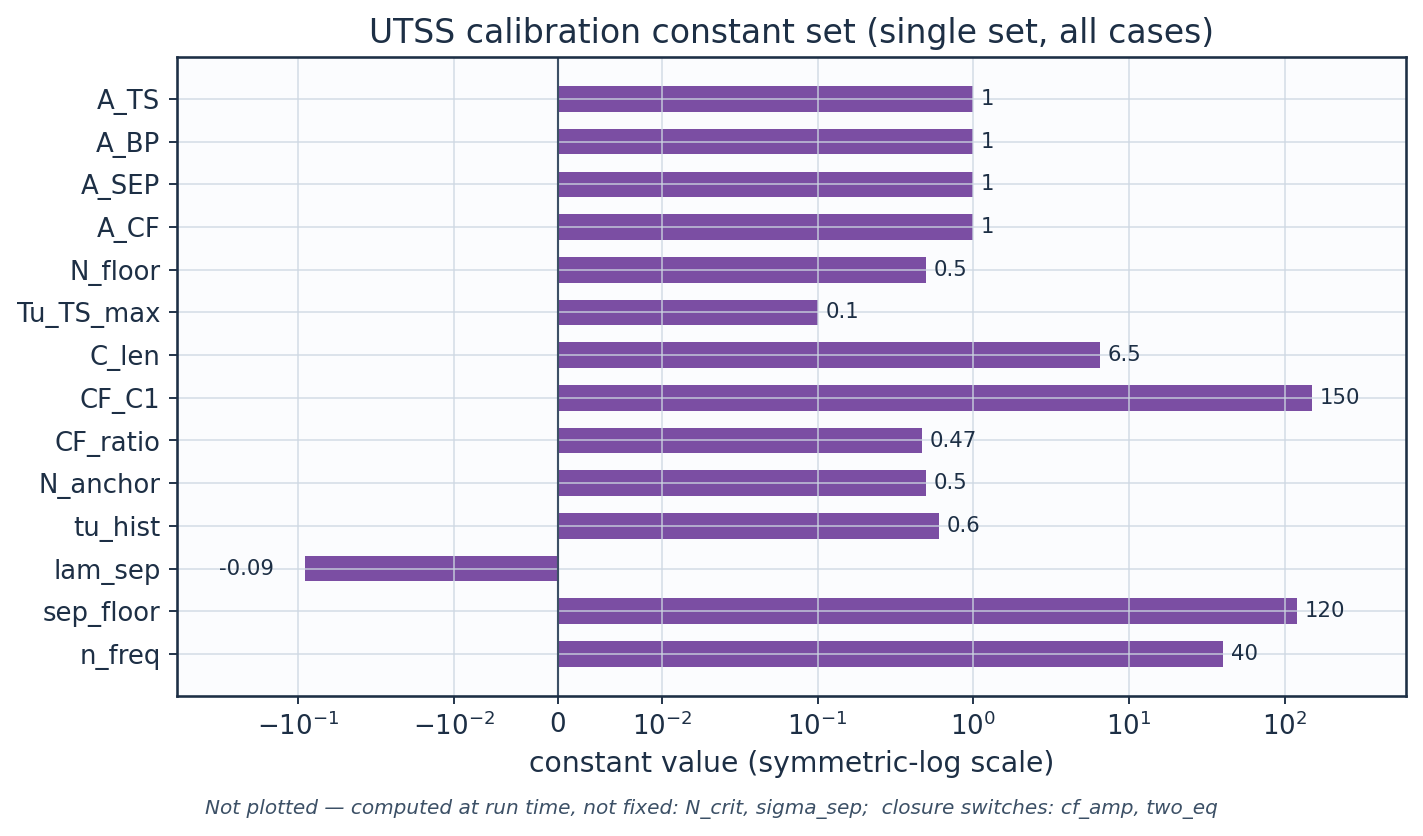
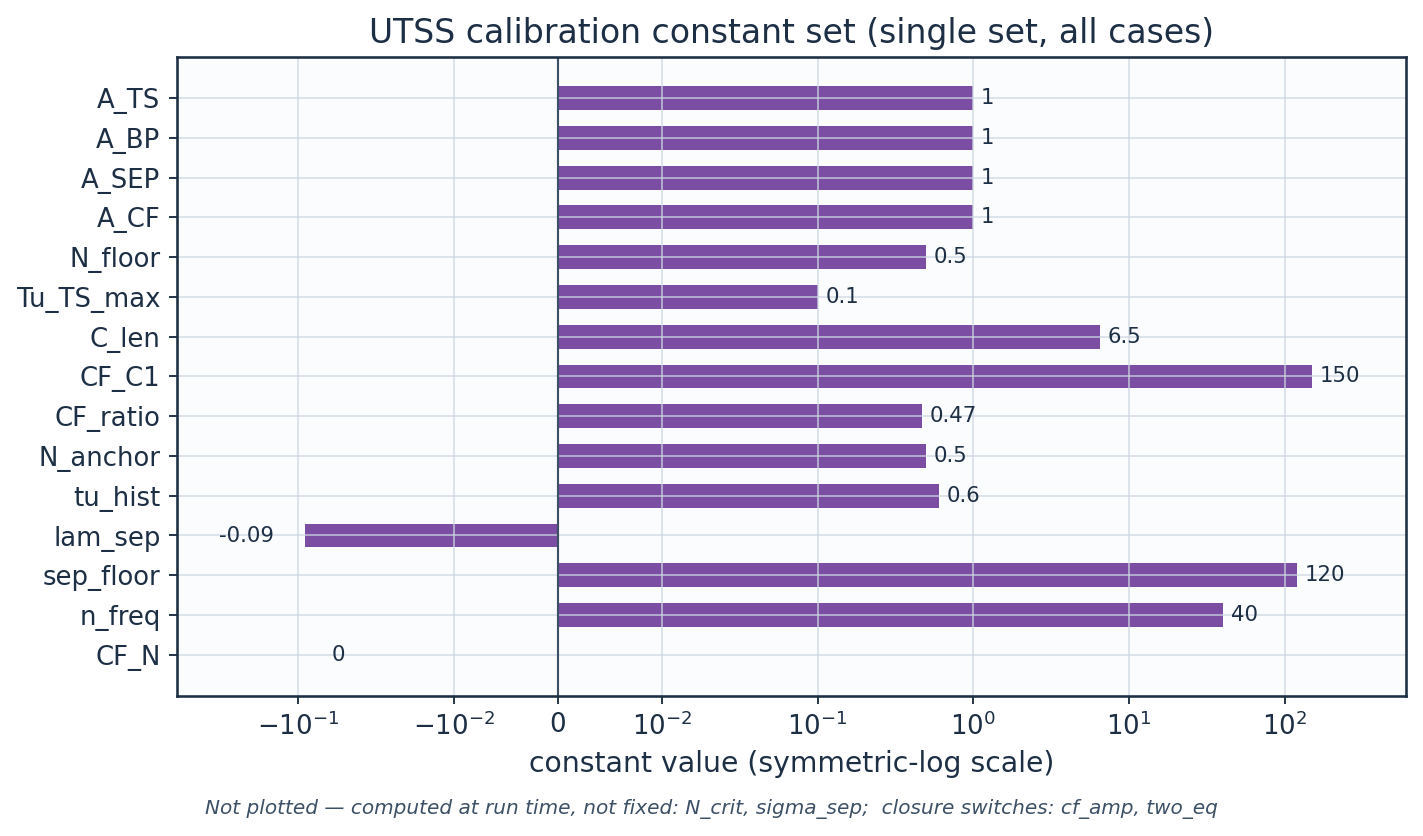
Measure what the two swept wings require of the cross-flow criterion, and stop charging the bubble to the laminar branch
Two of the three things left standing were reported as limitations without the
evidence that would let a reader judge them.  One was a reporting defect.

The laminar skin-friction error charged the separation bubble to the laminar
branch.  A station inside the bubble has C_f set identically to zero by the
closure, so a relative error against a measured 1.9e-4 is 100 per cent by
construction and says nothing about the branch being assessed.  Two such
stations were carrying T3C4 from 18.6 to 29.7 per cent.  The laminar set now
stops at the predicted separation point and T3C4 reads 21.9 per cent over nine
stations, which is a real error - the layer is fuller than the measurement
through the adverse gradient, and the station just before separation is wrong
by 48 per cent.

The cross-flow band was asserted rather than measured.  crossflow_criticals()
now marches each of the ten swept-wing conditions with every branch disabled,
so the march reaches the measured transition station, and evaluates the
criterion there.  What the two experiments actually require:

  Dagenhart & Saric   Re_theta2 = 168.9, coefficient of variation 21.7 %, n=6
  Boltz et al.        Re_theta2 = 233.8, coefficient of variation  4.0 %, n=4
  pooled              Re_theta2 = 194.9, coefficient of variation 22.1 %, n=10

Each facility is internally consistent - the second to four per cent, across
four sweep angles and a threefold range of chord Reynolds number - and the two
[…]

diff --git a/build_docx.py b/build_docx.py
@@ -534,10 +534,28 @@ para("The cross-flow coefficient is set on the first of these two experiments an
  "serves both. The independent set is therefore tabulated at BOTH ends of that band: "
  "reporting only C1 = 150 understates what the criterion does here, and reporting only "
  "C1 = 200 would be a per-case re-tune of the kind this work is claiming not to need. The "
- "spread between the two columns is the limitation, stated rather than averaged away, and "
- "it is a receptivity difference — stationary cross-flow vortices are seeded by "
- "leading-edge roughness, which neither report documents. Nothing else in the model differs "
- "between the two columns.")
+ "spread between the two columns is the limitation, stated rather than averaged away. "
+ "Nothing else in the model differs between the two columns.")
+para("What each experiment requires of the criterion is measured rather than asserted "
+ "(Table 25). The march is run with every branch disabled so that it reaches the measured "
+ "transition station, and the criterion is evaluated there. Dagenhart & Saric require a "
+ "critical Re_θ2 of 169 with a 21.7 % coefficient of variation over six chord Reynolds "
+ "numbers; Boltz et al. require 234 with 4.0 % over four sweep angles and a factor of three in chord "
+ "Reynolds number. Each facility is therefore internally consistent — the second markedly so — "
+ "and the two differ by 38 %. That is the shape of a receptivity difference rather than of a "
+ "criterion with the wrong form: stationary cross-flow vortices are seeded by leading-edge "
+ "roughness, and neither report documents the surface finish. Two attempts to close the gap "
+ "fail and are recorded rather than dropped. Replacing the constant surrogate by the exact "
+ "Falkner-Skan-Cooke factor K(λ) makes matters worse, taking the pooled coefficient of "
+ "variation from 22 to 86 % and inverting the ratio between the two sets. Giving the "
+ "cross-flow branch its own "
+ "amplification threshold, separate from the one Mack's relation supplies for "
+ "Tollmien-Schlichting waves — which is defensible, since a stationary cross-flow vortex is "
+ "not seeded by free-stream turbulence — moves the independent set only from 55 to 51 % as "
+ "that threshold is taken from N = 2 to N = 12, with C1 refitted on the calibration set at "
+ "each value. The reason is that once Re_θ2 exceeds C1 the amplification builds so quickly "
+ "that the threshold is nearly redundant with C1 itself, so the two constants cannot be "
+ "separated by these data.")
 table_from_csv("06_validation/swept_wing_crossflow.csv",
                cap="Table 23. Cross-flow validation, 45° swept NLF(2)-0415 "
                    "(Dagenhart & Saric — the calibration set).")
@@ -551,12 +569,20 @@ image("06_validation/plots/val_swept_independent.png", width=5.9,
       cap="Fig. 43. Transition location against sweep angle, NACA 64(2)A015, "
           "with the C1 = 150–200 band shaded.")
 
-h2("11.4  Ablations — what each element of the formulation is worth")
 para("Each of the three elements that distinguish this formulation is switched off in turn, "
  "everything else held fixed, and the same two datasets the natural branch reaches are re-run. "
  "The table is regenerated by gen_validation.py and is not quoted from memory.")
+table_from_csv("06_validation/crossflow_criticals_summary.csv",
+               cap="Table 25. What each swept-wing experiment requires of the cross-flow "
+                   "criterion, evaluated at the measured transition station "
+                   "(crossflow_criticals_summary.csv).")
+table_from_csv("06_validation/crossflow_criticals.csv",
+               cap="Table 26. Point-by-point cross-flow criterion values at the measured "
+                   "transition stations (crossflow_criticals.csv).")
+
+h2("11.5  Ablations — what each element of the formulation is worth")
 table_from_csv("06_validation/ablations.csv",
-               cap="Table 25. Ablation study (ablations.csv): Schubauer-Skramstad onset error "
+               cap="Table 27. Ablation study (ablations.csv): Schubauer-Skramstad onset error "
                    "and the 86 aerofoil conditions, one closure removed at a time.")
 para("Calibration. The solver is calibrated through the single constant set of Table 7. The "
  "critical amplification factor is not among the constants: it follows from the free-stream "
@@ -565,17 +591,17 @@ para("Calibration. The solver is calibrated through the single constant set of T
  "constants reproduce every validation dataset — five flat plates, two swept wings and 86 "
  "aerofoil conditions — demonstrating that no case-specific physics tuning is required, which "
  "is the essence of the universality claim.")
-h2("11.5  Sources and references")
+h2("11.6  Sources and references")
 para("All data sources used for validation, for calibration of the closures, and for the "
  "case-study definition are recorded below.")
 table_from_csv("06_validation/sources_and_references.csv", max_rows=40,
-               cap="Table 26. Validation, calibration and case-study sources.")
+               cap="Table 28. Validation, calibration and case-study sources.")
 table_from_csv("06_validation/swept_wing_source.csv",
-               cap="Table 27. Cross-flow calibration dataset provenance.")
+               cap="Table 29. Cross-flow calibration dataset provenance.")
 table_from_csv("06_validation/swept_wing_independent_source.csv",
-               cap="Table 28. Independent swept-wing dataset provenance.")
+               cap="Table 30. Independent swept-wing dataset provenance.")
 table_from_csv("06_validation/aerofoil_nlf0416_source.csv",
-               cap="Table 29. Aerofoil dataset provenance.")
+               cap="Table 31. Aerofoil dataset provenance.")
 
 # ======================================================================
 h1("12.  Contribution to Knowledge")

diff --git a/gen_validation.py b/gen_validation.py
@@ -158,7 +158,14 @@ def run_validation():
             cf_lam_ref=0.664/np.sqrt(np.maximum(rex_e,1.0))
             cf_turb_ref=0.0592/np.maximum(rex_e,1.0)**0.2
             g_i=np.interp(rex_e, r["Re_x"], r["gamma"])
-            m_lam=(rex_e < lo) & (cf_e <= 1.5*cf_lam_ref)
+            # A station inside the predicted bubble is in neither state: the
+            # closure sets C_f identically to zero there, so a relative error
+            # against a measured 1.9e-4 is 100 per cent by construction and
+            # says nothing about the laminar branch.  Two such stations were
+            # what carried the T3C4 laminar figure from 18.6 to 29.7 per cent.
+            rex_sep = (float(r["Re_x"][r["i_sep"]])
+                       if r.get("i_sep") is not None else np.inf)
+            m_lam=(rex_e < lo) & (cf_e <= 1.5*cf_lam_ref) & (rex_e < rex_sep)
             m_turb=(g_i >= 0.99) & (cf_e >= 0.7*cf_turb_ref)
             err_lam=(round(float(np.mean(rel[m_lam])),1) if m_lam.sum() else None)
             err_turb=(round(float(np.mean(rel[m_turb])),1) if m_turb.sum() else None)
@@ -376,6 +383,77 @@ def run_swept2():
         print("independent swept-wing, C1 = %3d: mean |err| = %.1f%%"
               % (c1, float(np.mean(np.abs(df[f"err_pct_C1_{int(c1)}"])))))
     return df
+
+
+def crossflow_criticals(write=True, quiet=False):
+    """What the cross-flow criterion would have to return at each MEASURED
+    transition point, on both swept wings.
+
+    This is the evidence for the band of Sec. IV.C, and it is measured rather
+    than asserted.  The march is run with every branch disabled so that it
+    reaches the measured station, and the criterion is evaluated there.  If a
+    single critical value served both experiments the two means would agree;
+    the scatter within each experiment says whether the FORM of the criterion
+    is right, separately from whether one constant fits both.
+    """
+    import stability as _st
+    from utss_solver import _re_theta2
+    # every branch off, so the laminar march reaches the measured station
+    NOCF = dict(CF_C1=1e12, A_TS=1e6, Tu_TS_max=-1.0, bubble=False)
+
+    def probe(X, Y, al, U, nu, c, tu, sw, x_meas):
+        r = solve_airfoil(X, Y, al, U, nu, c, tu, sweep_deg=sw, cal=NOCF)
+        u = r["surfaces"]["upper"]
+        x = np.asarray(u["x"], float); k = np.argsort(x)
+        Rt = float(np.interp(x_meas, x[k], np.asarray(u["Re_theta"], float)[k]))
+        lm = float(np.interp(x_meas, x[k], np.asarray(u["lam"], float)[k]))
+        L = np.radians(sw)
+        return (Rt, _re_theta2(Rt, sw, CAL["CF_ratio"]),
+                Rt*np.sin(L)*np.cos(L)*_st.crossflow_factor(lm))
+
+    rows = []
+    v1 = C.SWEPT; X1, Y1 = _section_points(NLF415)
+    for Rec, xm in zip(v1["Re_c"], v1["x_tr_c"]):
+        Rt, r2, rx = probe(X1, Y1, v1["alpha_deg"], Rec*v1["nu"]/v1["chord_m"],
+                           v1["nu"], v1["chord_m"], v1["Tu_pct"],
+                           v1["sweep_deg"], xm)
+        rows.append(dict(dataset="Dagenhart & Saric (calibration)",
+                         sweep_deg=v1["sweep_deg"], Re_c=f"{Rec:.3e}",
+                         x_tr_c_measured=xm, Re_theta=round(Rt, 1),
+                         Re_theta2_surrogate=round(r2, 1),
+                         Re_cf_exact_FSC=round(rx, 1)))
+    v2 = C.SWEPT2; X2, Y2 = _section_points(v2["section"])
+    for sw, al, xm, Rec in zip(v2["sweep_deg"], v2["alpha_deg"],
+                               v2["x_tr_c"], v2["Re_c"]):
+        Rt, r2, rx = probe(X2, Y2, al, Rec*v2["nu"]/v2["chord_m"],
+                           v2["nu"], v2["chord_m"], v2["Tu_pct"], sw, xm)
+        rows.append(dict(dataset="Boltz et al. (independent)", sweep_deg=sw,
+                         Re_c=f"{Rec:.3e}", x_tr_c_measured=xm,
+                         Re_theta=round(Rt, 1),
+                         Re_theta2_surrogate=round(r2, 1),
+                         Re_cf_exact_FSC=round(rx, 1)))
+    df = pd.DataFrame(rows)
+    stat = []
+    groups = [(n, d) for n, d in df.groupby("dataset", sort=False)]
+    groups.append(("Both facilities pooled", df))
+    for name, d in groups:
+        for col, lab in (("Re_theta2_surrogate", "surrogate Re_theta2"),
+                         ("Re_cf_exact_FSC", "exact Falkner-Skan-Cooke Re_cf")):
+            v = d[col].to_numpy(float)
+            m = float(v.mean())
+            # population coefficient of variation, so the pooled figure and the
+            # per-facility ones are formed the same way
+            stat.append(dict(dataset=name, criterion=lab,
+                             mean_critical_value=round(m, 1),
+                             coeff_of_variation_pct=round(float(v.std())/m*100, 1),
+                             n_points=len(d)))
+    st_df = pd.DataFrame(stat)
+    if write:
+        df.to_csv(f"{VAL}/crossflow_criticals.csv", index=False)
+        st_df.to_csv(f"{VAL}/crossflow_criticals_summary.csv", index=False)
+    if not quiet:
+        print(st_df.to_string(index=False))
+    return df, st_df
 
 
 def _cl_curve(X, Y, mach, alphas=(-4.0, 2.0, 8.0)):
@@ -703,6 +781,7 @@ if __name__=="__main__":
     print(df_sw.to_string(index=False))
     df_sw2=run_swept2()
     print(df_sw2.to_string(index=False))
+    crossflow_criticals()
     df_nlf=run_nlf0416()
     print(nlf0416_summary(df_nlf).to_string(index=False))
     plot_nlf0416(df_nlf)

diff --git a/solver/utss_solver.py b/solver/utss_solver.py
@@ -102,6 +102,15 @@ CAL = dict(
                         # one - and the threshold is the same N_crit every
                         # other branch uses, so the integral form adds no
                         # constant to the one the criterion already had.
+    CF_N      = 0.0,    # if positive, the amplification factor at which the
+                        # cross-flow branch fires, in place of the N_crit the
+                        # other branches take from Mack's relation.  Mack
+                        # correlated TS waves against free-stream turbulence,
+                        # and a stationary cross-flow vortex is seeded by
+                        # leading-edge roughness instead, so there is no reason
+                        # the two thresholds should coincide; this exposes the
+                        # cross-flow one so that the question can be settled by
+                        # measurement rather than by assuming they do.
     cf_exact  = False,  # form the cross-flow Reynolds number from the exact
                         # Falkner-Skan-Cooke factor K(lambda) instead of the
                         # constant surrogate k_cf
@@ -906,8 +915,10 @@ def march_bl(s, Ue, nu, Tu_pct=0.2, sweep_deg=0.0, Ue_inf=1.0,
         Rt = 1e9 if in_bubble else min(Rbp, Rsep, Rcf)
         Re_th_t[i] = Rt
         trig_ts = bool(ts_live and n_amp >= N_target)
+        _Ncf = (float(cal.get("CF_N", 0.0)) or
+                _n_crit(Tu_eff[i], cal.get("N_floor", 0.5)))
         trig_cf = bool(sweep_deg > 1.0 and cal.get("cf_amp", True)
-                       and n_cf >= _n_crit(Tu_eff[i], cal.get("N_floor", 0.5)))
+                       and n_cf >= _Ncf)
         if (trig_ts or bub_trig or trig_cf or Reth[i] >= Rt) and i_tr is None and i > 1:
             i_tr = i
             if in_bubble:

diff --git a/gen_mesh_setup.py b/gen_mesh_setup.py
@@ -248,6 +248,10 @@ def setup_tables():
         ("sep_floor",CAL["sep_floor"],"min separation-induced onset Re_theta (ablation path only)",
          "superseded by the bubble closure; reachable only with bubble=False"),
         ("n_freq",CAL["n_freq"],"frequencies carried by the e^N integration","discretisation parameter; onset moves <0.2% over 24-64"),
+        ("CF_N",CAL["CF_N"],"separate amplification threshold for the crossflow branch (ablation path only)",
+         "0 = use the same N_crit as every other branch; exposed to test whether a "
+         "roughness-seeded branch needs its own threshold, and it does not - see "
+         "06_validation/crossflow_criticals_summary.csv"),
     ]
     pd.DataFrame(calrows,columns=["constant","value","role","calibration_source"]).to_csv(
         f"{SET}/calibration_constants.csv",index=False)

diff --git a/README.md b/README.md
@@ -105,7 +105,31 @@ Boltz et al. digitised from NACA TN D-338:
 
 Both columns of the independent set are computed and tabulated by
 `gen_validation.py` into `06_validation/swept_wing_independent.csv`; the spread
-between them is the limitation, not a choice to be made per case.  The
+between them is the limitation, not a choice to be made per case.
+
+What the two experiments actually require is measured rather than asserted, in
+`06_validation/crossflow_criticals.csv`: the march is run with every branch
+disabled so that it reaches the measured transition station, and the criterion
+is evaluated there.
+
+| set | critical Re_θ2 | coeff. of variation | points |
+|---|---|---|---|
+| Dagenhart & Saric | 169 | 21.7 % | 6 |
+| Boltz et al. | 234 | 4.0 % | 4 |
+| pooled | 195 | 22.1 % | 10 |
+
+Each facility is internally consistent — Boltz to 4 % across four sweep angles
+and a factor of three in chord Reynolds number — and the two differ by 38 %.
+That is the shape of a receptivity difference, not of a criterion with the
+wrong form.  Two attempts to close the gap fail and are recorded rather than
+dropped: the exact Falkner–Skan–Cooke factor K(λ) in place of the constant
+surrogate makes it worse (pooled variation 86 % against 22 %, and the ratio
+between the two sets inverts), and giving the cross-flow branch its own
+amplification threshold,
+separate from Mack's, moves the independent set only from 55 % to 51 % as that
+threshold goes from N = 2 to 12, because once Re_θ2 exceeds C1 the
+amplification builds fast enough that the threshold is nearly redundant with
+C1 itself.  The
 branch is closed by an **amplification integral** rather than a local threshold
 — a stationary cross-flow vortex must grow before it breaks down — using the
 computed rate 0.0435 and the same N_crit as every other branch, so it adds no
